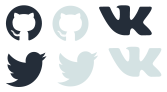
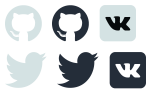
update

diff --git a/abyrvalg/style.css b/abyrvalg/style.css
@@ -239,20 +239,20 @@ body.blog-body {
 
 .lower-block .contacts-block a[href*="github"]:after {
     width: 37px;
-    height: 36px;
-    background-position: -5px -5px;
+    height: 37px;
+    background-position: -52px -5px;
 }
 
 .lower-block .contacts-block a[href*="twitter"]:after {
     width: 42px;
     height: 36px;
-    background-position: -5px -51px;
+    background-position: -57px -52px;
 }
 
 .lower-block .contacts-block a[href*="vk.com"]:after {
-    width: 53px;
-    height: 31px;
-    background-position: -99px -5px;
+    width: 37px;
+    height: 37px;
+    background-position: -109px -52px;
 }
 
 .work {
@@ -459,20 +459,20 @@ body.blog-body {
 
 .contact .follow-us a[href*="github"]:after {
     width: 37px;
-    height: 36px;
-    background-position: -52px -5px;
+    height: 37px;
+    background-position: -5px -5px;
 }
 
 .contact .follow-us a[href*="twitter"]:after {
-    width: 41px;
+    width: 42px;
     height: 36px;
-    background-position: -57px -51px;
+    background-position: -5px -52px;
 }
 
 .contact .follow-us a[href*="vk.com"]:after {
-    width: 54px;
-    height: 31px;
-    background-position: -108px -46px;
+    width: 37px;
+    height: 37px;
+    background-position: -99px -5px;
 }
 
 .blog {

diff --git a/bootstrap/index.html b/bootstrap/index.html
@@ -20,5 +20,8 @@
         <div class="col-md-4">
             <p>Lorem ipsum dolor sit amet, consectetur adipisicing elit. Quam dicta voluptate, qui saepe dolorum ad tempore deleniti velit voluptatibus eius, ab itaque alias. Nemo unde, eveniet! Nobis perferendis aliquam cum.</p>
         </div>
+	<audio controls>
+		<source src="music.mp3">
+	</audio>
     </body>
 </html>
